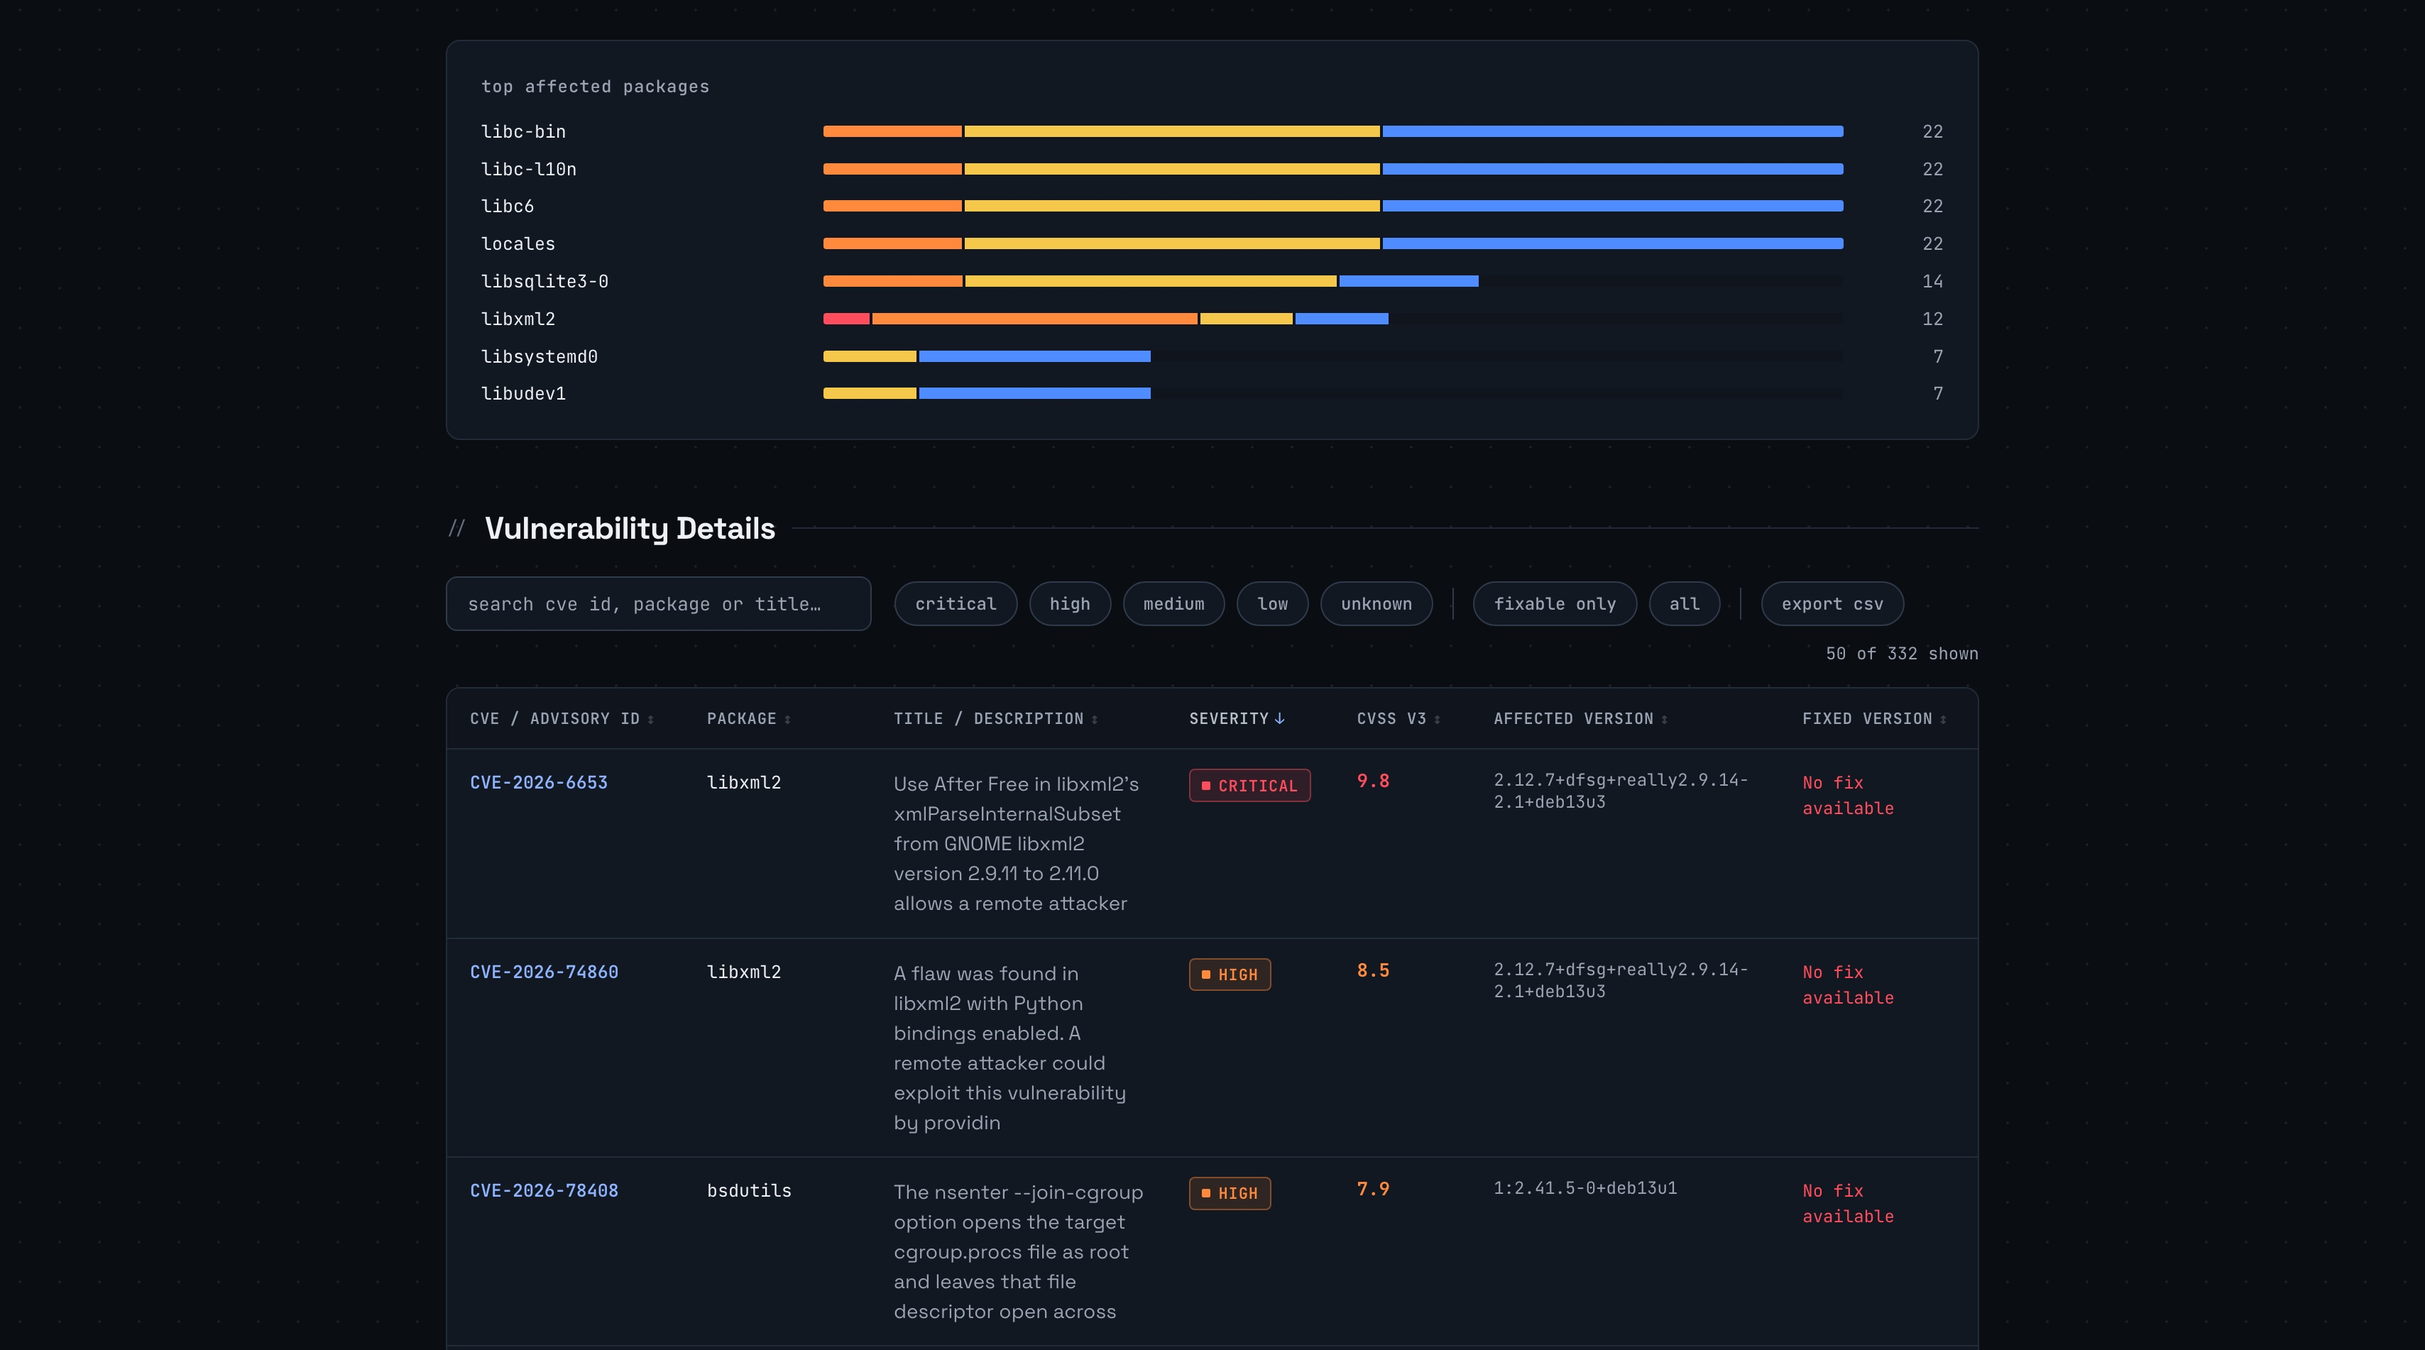
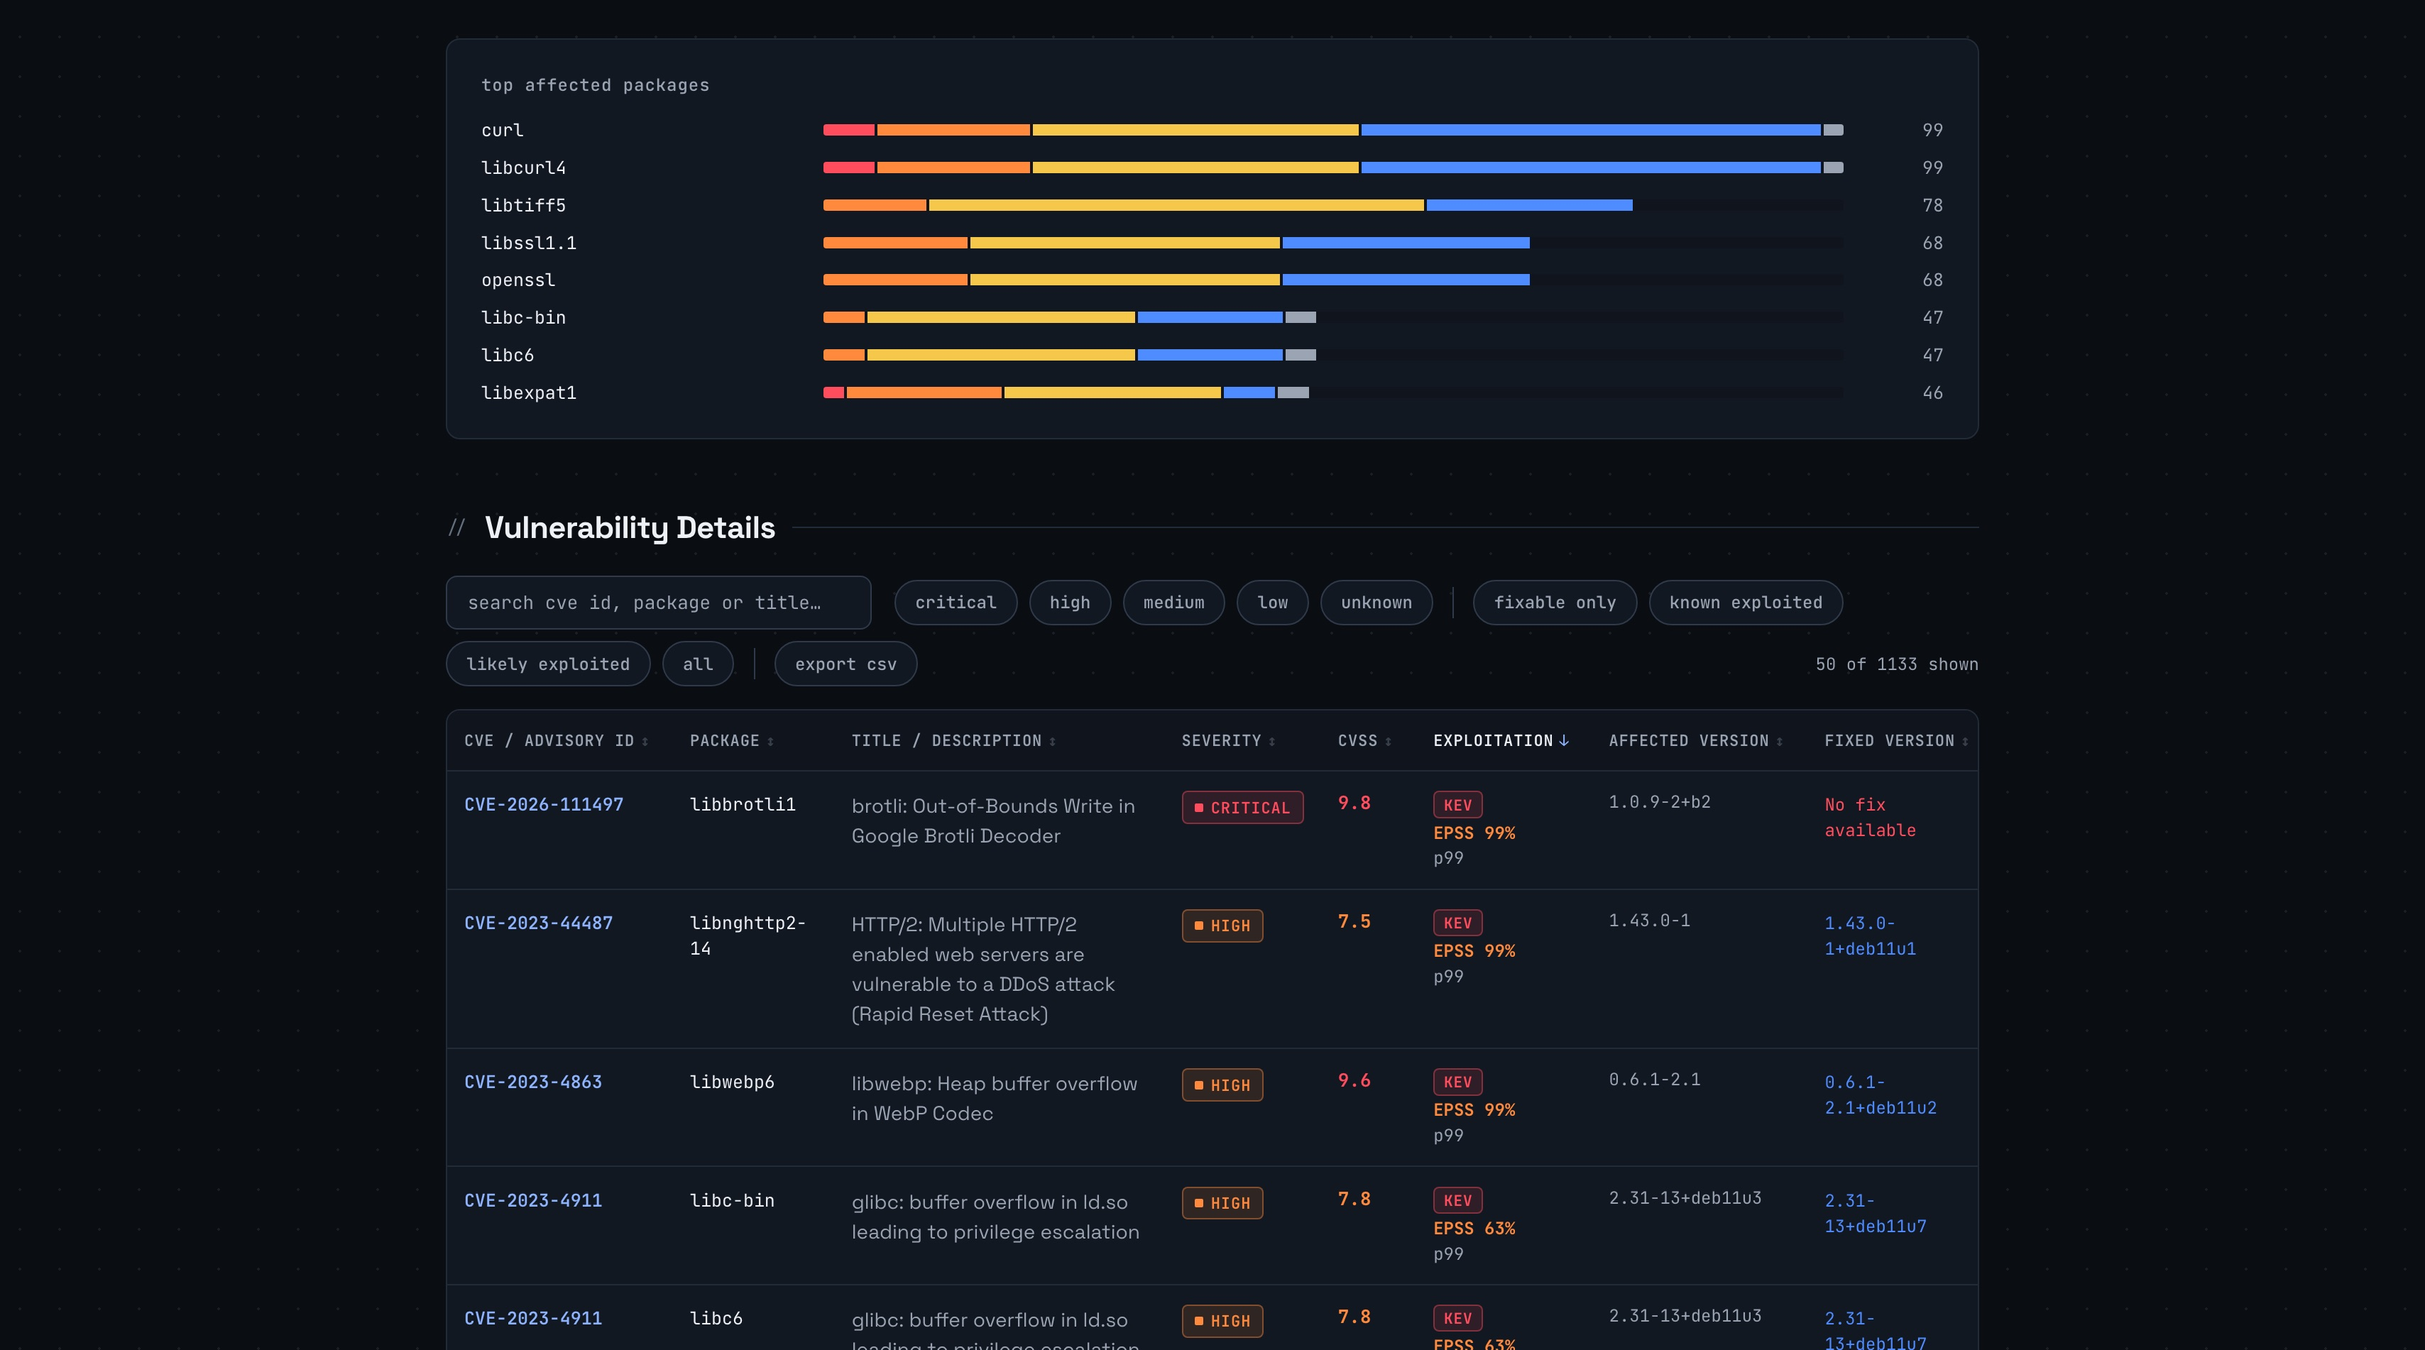
chore: sync docs and assets from source repo

diff --git a/README.md b/README.md
@@ -33,10 +33,14 @@ brew install fullstackspectrum/vulnly/vulnly
 - **Repository summary reports** — automatically detects Cloudsmith repo-level summaries and generates a dedicated overview report with package status breakdown, aggregate vulnerability counts, and per-package detail table
 - Dark and light colour themes via `--theme` flag, plus an in-report toggle so readers can switch without regenerating
 - Interactive doughnut charts showing severity or status distribution (Chart.js, bundled)
-- Severity stat cards (Total, Critical, High, Medium, Low, Unknown) and a count of findings that have a fix available
+- **Know what to fix first** — every finding is checked against CISA's [Known Exploited Vulnerabilities](https://www.cisa.gov/known-exploited-vulnerabilities-catalog) catalogue and FIRST's [EPSS](https://www.first.org/epss/) scores, and the table opens in priority order: known exploited, then likely exploited, then severity
+- **VEX** — `--vex` applies OpenVEX statements: findings ruled out leave the counts and are listed separately with their justification, so nothing disappears silently
+- **CI gating** — `--fail-on kev,epss,critical,high,fixable` exits 1 when any of them occur
+- Stat cards for the total, fixable, known exploited and likely exploited findings, then each severity
+- Severity and score from CVSS vectors (3.x and 4.0) when a source gives only the vector
 - **Top affected packages** — a ranked breakdown showing where findings are concentrated, since one bad dependency usually dominates a scan
 - Auto-generated executive summary, with an alert that distinguishes urgent findings from routine ones and from a clean scan
-- Client-side search, severity filters and a fixable-only toggle, with sortable columns and pagination so large reports stay usable
+- Client-side search, severity filters and fixable, known-exploited and likely-exploited toggles, with sortable columns and pagination so large reports stay usable
 - **CSV export** of the current filtered view, safe to open in a spreadsheet
 - Automatic linking for CVE IDs (NVD) and GHSA IDs (GitHub Advisories)
 - Customisable logo — supply via `--logo`, embedded in the report as a data URI
@@ -175,51 +179,151 @@ Test a container image with Snyk and pipe directly to Vulnly:
 snyk container test nginx:latest --json | vulnly --source snyk -
 ```
 
+## Prioritising findings
+
+A scan with a thousand findings doesn't need a thousand fixes this week. Vulnly
+adds two signals to each finding with a CVE, and puts the table in that order:
+
+- **Known exploited**: the CVE is in CISA's Known Exploited Vulnerabilities
+  (KEV) catalogue, so it's being exploited in the wild. The row gets a `KEV`
+  tag, with the date CISA added it and whether it's linked to ransomware.
+- **Likely exploited**: FIRST's EPSS gives the probability the CVE is
+  exploited in the next 30 days. 10% or more counts as likely; that's roughly
+  the top 5% of all scored CVEs. Change it with `--epss-threshold`.
+
+The table opens with known exploited findings first, then likely exploited,
+then by severity, with EPSS and CVSS breaking ties. `--sort severity` keeps
+the 1.2 order. The executive summary and alert lead with known exploited
+findings when there are any.
+
+GHSA and Snyk IDs are matched through the CVE aliases the scanner reports.
+
+### Network and air-gapped hosts
+
+KEV and EPSS are looked up when the report is generated, cached for a day in
+`~/.cache/vulnly`, and embedded in the report, which still opens with no
+network access. If a lookup fails, the report is generated anyway and says
+the data is missing.
+
+On a host with no internet access, download the data elsewhere and pass it in,
+or turn the lookups off:
+
+```bash
+curl -LO https://www.cisa.gov/sites/default/files/feeds/known_exploited_vulnerabilities.json
+curl -LO https://epss.empiricalsecurity.com/epss_scores-current.csv.gz
+vulnly scan.json --kev known_exploited_vulnerabilities.json --epss epss_scores-current.csv.gz
+
+vulnly scan.json --no-enrich        # or set VULNLY_NO_ENRICH=1
+```
+
+### VEX
+
+If your team has decided some findings don't apply, record it in an
+[OpenVEX](https://openvex.dev) document and pass it with `--vex` (repeatable):
+
+```bash
+vulnly scan.json --vex exceptions.openvex.json
+```
+
+Findings marked `not_affected` or `fixed` leave the counts, the chart and the
+table, and are listed under the table with the statement's justification.
+`under_investigation` findings stay, tagged. A statement that names packages
+applies only to those packages. in-toto attestations and DSSE envelopes
+wrapping OpenVEX are read too.
+
+### CI gating
+
+`--fail-on` exits 1 when any listed category occurs. The report is written
+either way.
+
+| Category | Fails when |
+| --- | --- |
+| `kev` | a finding is known exploited |
+| `epss` | a finding is likely exploited (EPSS at or over the threshold) |
+| `critical` | a finding is rated critical |
+| `high` | a finding is rated critical or high |
+| `fixable` | a finding has a fix available |
+
+```bash
+vulnly scan.json --fail-on kev,epss
+```
+
+A `kev` or `epss` gate fails, rather than passes, when that data couldn't be
+looked up, so a network outage can't wave a build through.
+
 ## Example report
 
-The scan summary — severity and fixable counts, the distribution chart, and an
-executive summary whose alert reflects whether anything is actually urgent:
+The scan summary for `nginx:1.21`: the total, fixable, known exploited and
+likely exploited counts, then each severity, the distribution chart, and an
+executive summary that leads with what's being exploited:
 
-<img src="https://raw.githubusercontent.com/fullstackspectrum/vulnly/main/assets/readme/example.jpg" alt="Vulnly report summary: stat cards, severity distribution chart and executive summary">
+<img src="https://raw.githubusercontent.com/fullstackspectrum/vulnly/main/assets/readme/example.jpg" alt="Vulnly report summary: total, fixable, known exploited and likely exploited cards, severity cards, and the start of the overview">
 
-Further down, the findings themselves — where they are concentrated, then a
-sortable table with search, severity and fixable filters, and CSV export:
+Further down, the findings themselves: where they're concentrated, then the
+table in priority order, known exploited first, with KEV tags and EPSS scores,
+search, severity, fixable and exploitation filters, and CSV export:
 
-<img src="https://raw.githubusercontent.com/fullstackspectrum/vulnly/main/assets/readme/example2.jpg" alt="Vulnly findings: top affected packages breakdown and the filterable vulnerability table">
+<img src="https://raw.githubusercontent.com/fullstackspectrum/vulnly/main/assets/readme/example2.jpg" alt="Vulnly findings: top affected packages, the filters, and the table opening with known exploited findings tagged KEV with their EPSS scores">
 
 ## Usage
 
 ```
 usage: vulnly [-h] [-v] [-o OUTPUT] [--logo LOGO]
               [--theme {dark,light}] [--source SOURCE]
-              [--package PACKAGE] [--package-version PACKAGE_VERSION]
-              [--repository REPOSITORY]
+              [--package PACKAGE]
+              [--package-version PACKAGE_VERSION]
+              [--repository REPOSITORY] [--no-enrich] [--kev FILE]
+              [--epss FILE] [--epss-threshold P]
+              [--sort {priority,severity}] [--vex FILE]
+              [--fail-on LIST]
               input
 
 Generate an HTML vulnerability report from a JSON input file.
 
 positional arguments:
-  input                 Path to the JSON file containing vulnerability
-                        data (use '-' for stdin)
+  input                 Path to the JSON file containing vulnerability data
+                        (use '-' for stdin)
 
 options:
   -h, --help            show this help message and exit
   -v, --version         show program's version number and exit
-  -o, --output OUTPUT   Output HTML file path (default: auto-generated
-                        from package metadata)
-  --logo LOGO           Path to a custom logo image (embedded in the
-                        report as a data URI)
+  -o, --output OUTPUT   Output HTML file path (default: auto-generated from
+                        package metadata)
+  --logo LOGO           Path to a custom logo image (embedded in the report as
+                        a data URI)
   --theme {dark,light}  Report colour theme (default: dark)
   --source SOURCE       Scanner source format: cloudsmith, cloudsmith-osv,
                         grype, snyk, trivy (auto-detected if omitted)
   --package PACKAGE     Package name to show in the report (overrides the
                         input)
   --package-version PACKAGE_VERSION
-                        Package version to show in the report (overrides
-                        the input)
+                        Package version to show in the report (overrides the
+                        input)
   --repository REPOSITORY
-                        Repository path to show in the report (overrides
-                        the input)
+                        Repository path to show in the report (overrides the
+                        input)
+
+prioritising:
+  Findings are checked against CISA's Known Exploited Vulnerabilities
+  catalogue and FIRST's EPSS scores, fetched when the report is generated
+  (cached for a day) and embedded in it, so the report still opens offline.
+
+  --no-enrich           don't look up KEV or EPSS (or set VULNLY_NO_ENRICH=1)
+  --kev FILE            use a downloaded KEV catalogue (CISA's JSON) instead
+                        of fetching it
+  --epss FILE           use a downloaded EPSS file (FIRST's daily CSV, plain
+                        or .gz) instead of the API
+  --epss-threshold P    EPSS score that counts as likely exploited (default:
+                        0.1, i.e. 10%)
+  --sort {priority,severity}
+                        table order: priority (known exploited, then likely
+                        exploited, then severity; the default) or severity
+  --vex FILE            apply an OpenVEX document: not_affected and fixed
+                        findings leave the counts and are listed separately
+                        (repeatable)
+  --fail-on LIST        exit 1 if any of these occur: kev, epss, critical,
+                        high, fixable (comma-separated; the report is still
+                        written)
 ```
 
 The three metadata flags override whatever the input format supplied. They
@@ -231,6 +335,8 @@ identity, but they apply to any source.
 | Variable | Effect |
 | --- | --- |
 | `VULNLY_NO_UPDATE_CHECK` | Set to any value to skip the PyPI version check. |
+| `VULNLY_NO_ENRICH` | Set to any value to skip the KEV and EPSS lookups, like `--no-enrich`. |
+| `VULNLY_CACHE_DIR` | Where KEV and EPSS lookups are cached (default `~/.cache/vulnly`, or `$XDG_CACHE_HOME/vulnly`). |
 
 The version check is skipped automatically when stderr is not a terminal, so
 it makes no network request in CI or when output is piped.
@@ -253,8 +359,10 @@ moved. It also means opening a report tells no third party that you did.
 CVE and GHSA identifiers still link out to NVD and GitHub Advisories, but those
 are ordinary links — nothing is fetched unless the reader clicks one.
 
-The generator itself contacts the network only for its PyPI version check,
-which can be disabled with `VULNLY_NO_UPDATE_CHECK` as described above.
+The generator itself contacts the network for the KEV and EPSS lookups
+described in [Prioritising findings](#prioritising-findings), and for its PyPI
+version check. Both can be turned off, with `VULNLY_NO_ENRICH` and
+`VULNLY_NO_UPDATE_CHECK`.
 
 ## Input JSON Format
 
@@ -490,7 +598,11 @@ The script prints a severity breakdown after generating the report:
 ```
 Report generated: reports/nginx_latest_nginx_latest_a72860cb95fd_grype_vulnerability_report.html (3 vulnerabilities)
   CRITICAL: 1  MEDIUM: 1  LOW: 1
+  1 known exploited (KEV), 1 likely exploited (EPSS ≥ 10%)
 ```
+
+The second line appears when KEV or EPSS data was looked up, and counts any
+findings ruled out by VEX.
 
 A clean scan says so explicitly:
 

diff --git a/CHANGELOG.md b/CHANGELOG.md
@@ -4,6 +4,25 @@ All notable changes to this project will be documented in this file.
 
 The format is based on [Keep a Changelog](https://keepachangelog.com/), and this project adheres to [Semantic Versioning](https://semver.org/).
 
+## [1.3.0] - 2026-11-23
+
+### Added
+- **Know what to fix first.** Every finding with a CVE is checked against CISA's Known Exploited Vulnerabilities (KEV) catalogue and FIRST's EPSS scores. Known exploited findings get a `KEV` tag, with the date CISA added them and whether they're linked to ransomware, and every finding shows its EPSS probability and percentile in a new Exploitation column. Two new stat cards count known and likely exploited findings, two new toggles filter to them, and the executive summary and alert lead with known exploited findings when there are any. GHSA and Snyk findings are matched through the CVE aliases their scanner reports.
+- The lookups happen when the report is generated, are cached for a day, and are embedded in the report, which still opens with no network access. A failed lookup never stops a report. `--no-enrich` (or `VULNLY_NO_ENRICH`) turns them off, and `--kev` and `--epss` read downloaded copies for air-gapped hosts. `--epss-threshold` sets what counts as likely exploited (default 10%).
+- **VEX.** `--vex` applies OpenVEX documents. Findings marked `not_affected` or `fixed` leave the counts and are listed under the table with the statement's justification; `under_investigation` findings are tagged.
+- **CI gating.** `--fail-on kev,epss,critical,high,fixable` exits 1 when any listed category occurs. A `kev` or `epss` gate fails when that data couldn't be looked up, rather than passing.
+- CVSS vectors are scored, 3.x and 4.0, so OSV records that give only a vector now get a score and a severity instead of Unknown.
+- The CSV export has KEV, KEV dates, ransomware use, EPSS, EPSS percentile and VEX status columns.
+
+### Changed
+- **Reports open in priority order**: known exploited, then likely exploited, then severity, with EPSS and CVSS breaking ties. `--sort severity` keeps the previous order.
+- The CVSS column is headed CVSS rather than CVSS v3, since it now shows 4.0 scores too.
+- The stat cards are laid out in two rows, totals then severities, so none is ever left on a row alone at any width.
+
+### Fixed
+- The vulnerability table scrolls sideways on narrow screens instead of cutting off its right-hand columns.
+- Choosing a severity filter no longer removes the highlight from the "Fixable only" toggle while leaving it applied.
+
 ## [1.2.0] - 2026-11-08
 
 ### Changed
